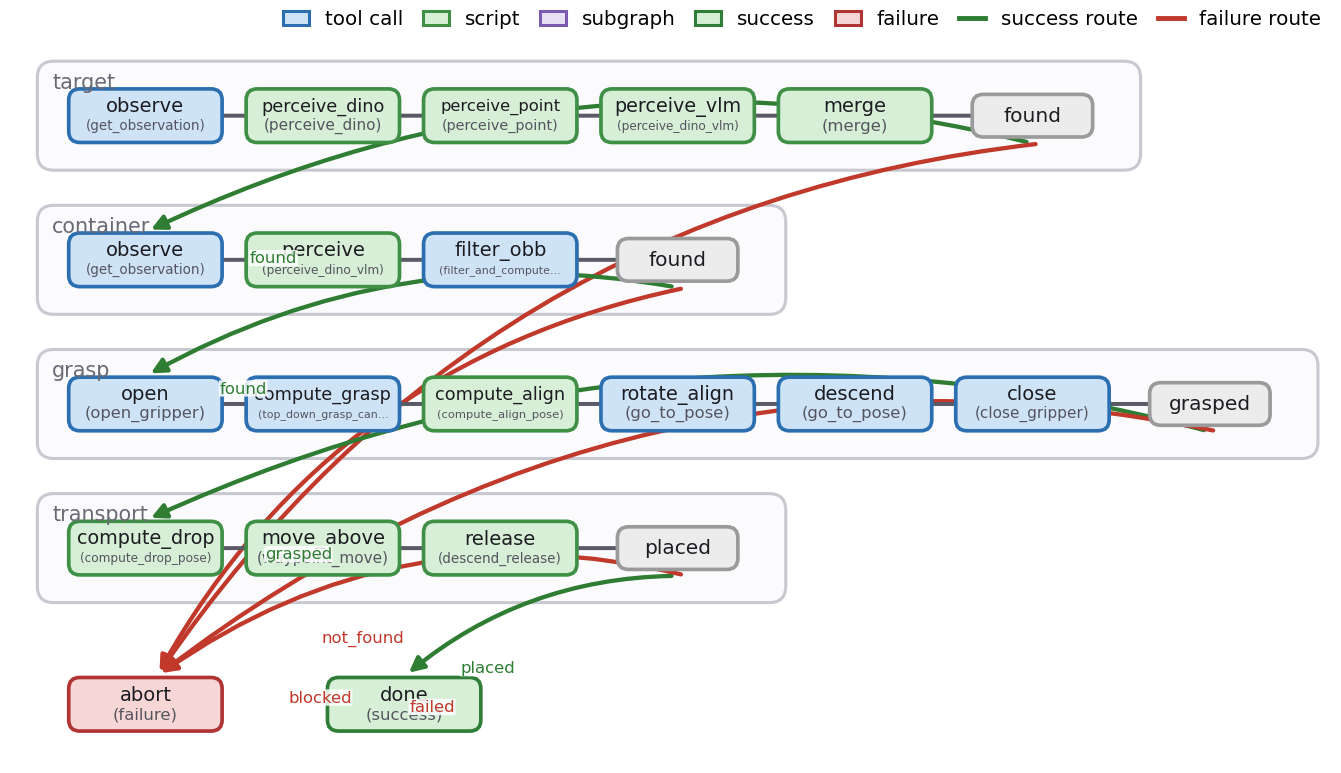
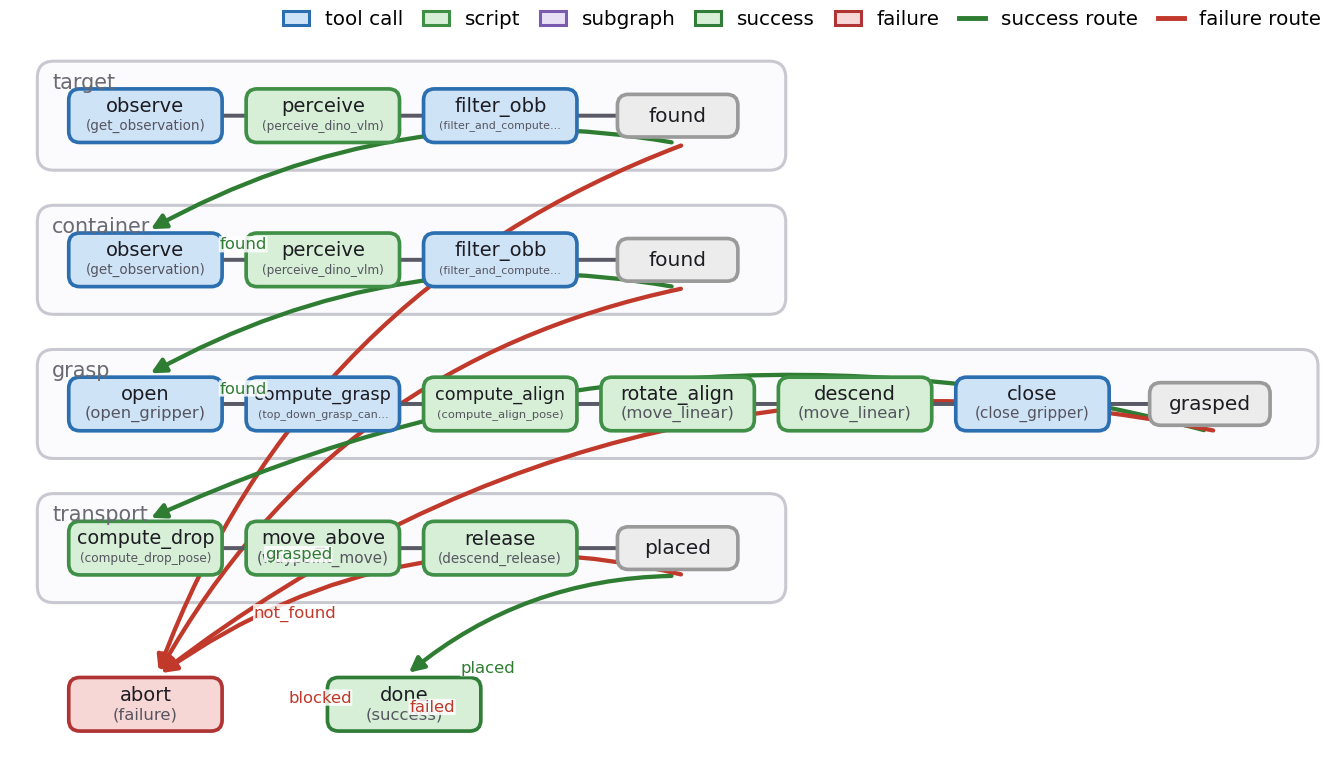
docs: rework the 15-minute tour, slim the landing page into Overview
- Regenerate quickstart_rollout.gif + quickstart_graph.png from the
  current graph (post perception refactor: single perceive path, linear
  descend) via a fresh verified rollout; assets now follow the
  docs/assets + _static-symlink convention.
- Tour gains a closing packing segment (minute 12-15): the grocery
  packing loop with its backward edge and unprivileged VLM termination.
- Landing page (docs/index.md) trimmed to hero + hello-world + cards;
  Abstract, VA positioning, grocery family, requirements table, and
  two-ways-in migrated to getting-started/overview.md.

diff --git a/docs/source/docs/index.md b/docs/source/docs/index.md
@@ -10,12 +10,12 @@ the workflow schema, and skill interfaces may change without notice between
 releases.
 :::
 
-**The graph is the policy.** GaP targets **Variational Automation (VA)** —
-tasks a robot must perform *persistently and reliably across many varying
-instances* (objects vary in geometry and pose), not just solve **once**. GaP is
-a multi-agent coding harness that compiles a natural-language task into a typed,
-verified computation graph of modular skills, self-improves it in simulation,
-and runs the graph — not a black-box policy — on simulators and real robots.
+**The graph is the policy.** GaP is a multi-agent coding harness that compiles
+a natural-language task into a typed, verified computation graph of modular
+skills, self-improves it in simulation, and runs the graph — not a black-box
+policy — on simulators and real robots. It targets **Variational Automation
+(VA)**: tasks a robot must perform *persistently and reliably across many
+varying instances* (objects vary in geometry and pose), not just solve once.
 
 <p><em>GaP: A Graph-as-Policy Multi-Agent Self-Learning Harness for Variational Automation</em></p>
 
@@ -40,98 +40,9 @@ and runs the graph — not a black-box policy — on simulators and real robots.
 
 *Real-robot rollouts of graphs generated from one-sentence task descriptions.*
 
-## Abstract
-
-GaP (Graph-as-Policy) targets **Variational Automation (VA)** — tasks a robot
-must perform persistently and reliably across many varying instances (objects
-vary in geometry and pose), not just solve once. Model-free policies struggle to
-close this **reliability gap**. GaP is a multi-agent coding harness that turns a
-natural-language task into a **directed computation graph of modular skills**
-(MORSL), self-improves it through simulation rehearsal, and ships it to an edge
-device for persistent execution — evaluated across **8 Variational Automation
-benchmarks (4 sim + 4 real)**; results are on the
-[project page](https://graph-robots.github.io/graph-as-policy-anonymous/).
-
-**Highlights**
-
-- We identify **Variational Automation (VA)** — a class of tasks, between fixed
-  automation and full generalist robotics, where a robot persistently performs
-  varying instances of a task with non-trivial variation in object geometry and
-  pose (e.g., sort packages, make coffee, build sandwiches).
-- **Graph-as-Policy (GaP)** represents a robot policy as a directed computation
-  graph of modular perception, planning, and control nodes — harnessing the
-  open-world adaptivity of LLM coding agents while preserving an interpretable,
-  reliable structure.
-- A hierarchical multi-agent harness decomposes a natural-language task, has
-  Skill Agents synthesize localized subgraphs from the **Modular Open Robot
-  Skill Library (MORSL, 51 initial skills)**, and wires them into a type-checked
-  executable graph.
-- GaP rehearses graphs in an internal **Isaac simulation** across parallel
-  sampled task instances, uses physical contact and state feedback to localize
-  failures to specific nodes, and iteratively refines graph topology and
-  parameters before deployment.
-- GaP is evaluated on **8 new open VA benchmarks (4 sim + 4 real)** against
-  VLA, TAMP, and single-agent code-as-policy baselines — see the
-  [project page](https://graph-robots.github.io/graph-as-policy-anonymous/)
-  for the results.
-
-## What is Variational Automation — and why GaP is different
-
-Many agentic-coding papers solve a task **once**. GaP targets **Variational
-Automation (VA)**: a robot must perform *varying instances* of a task —
-persistently and reliably — with non-trivial variation in the geometry and pose
-of objects, inside a known, bounded workcell. VA sits **between fixed automation
-and full generalist robotics**:
-
-- **Fixed Automation (FA)** — persistently repeats *identical* motions (spot
-  welding, spray painting). High reliability, zero adaptivity.
-- **Variational Automation (VA)** — persistently performs *varying* instances
-  (different SKUs, poses, arrangements) within a known workcell. **This is GaP's
-  target.**
-- **Generalist Robotics (GR)** — open-ended tasks via model-free end-to-end VLA
-  policies. Flexible, but not yet at commercial / industrial reliability.
-
-:::{admonition} Why not just single-agent Code-as-Policy?
-:class: note
-
-Single-agent Code-as-Policy (CaP) prompts a coding agent to emit free-form
-Python. For persistent, repeated execution this is unstructured: the context
-window grows, constraints are hard to obey, and agents are prone to
-hallucination and "cheating" on success metrics. GaP's directed computation
-graph revives the structure proven in the Robot Operating System (ROS) — routing
-data through an explicit graph to manage dependencies and ensure reliable
-execution — and layers the open-world adaptivity of pretrained LLM coding agents
-on top, preserving an interpretable policy that stays reliable across a VA
-task's many instances.
-:::
-
-## The grocery benchmark family, runnable here
-
-The two simulation benchmarks from the paper's grocery family ship in this
-repo as runnable examples — the same graphs, suites, and configs:
-
-- **[Grocery Fulfillment](../examples/grocery-fulfillment.md)** — pick a
-  *described* grocery item into the basket under pose / permutation /
-  basket-swap variations; every graph is LLM-generated per task, and the
-  full config is the release gate.
-- **[Grocery Packing](../examples/grocery-packing.md)** — pack *every*
-  item with a loop: a static graph with a real backward edge and
-  unprivileged VLM termination, plus the `gap generate` recipe that
-  reproduces it from one sentence.
-
-Quantitative comparisons against VLA, TAMP, and code-as-policy baselines
-live on the
-[project page](https://graph-robots.github.io/graph-as-policy-anonymous/);
-this documentation stays with what you can run and inspect.
-
-## What you need to try GaP
-
-| Requirement | Details |
-|---|---|
-| **GPU** | 1× NVIDIA RTX 4090-class GPU (**≥ 24 GB VRAM**), Linux + EGL. |
-| **LLM** | An API key for a coding LLM — **OpenRouter** (default, OpenAI-compatible) or Vertex — drives the multi-agent codegen harness. |
-| **VLM** | A vision-language model for perception (object identification & grounding), plus local **SAM3 + Grounding DINO** weights. A free [HuggingFace token](https://huggingface.co/settings/tokens) is needed for the gated SAM3 weights. |
-| **Tooling** | [uv](https://docs.astral.sh/uv/); the first run downloads ~3.5 GB of model weights. |
+The [Overview](../getting-started/overview.md) has the full story — what
+Variational Automation is, why the policy is a graph, and what you need to
+run GaP.
 
 ## Hello world — your first run
 
@@ -151,18 +62,6 @@ MUJOCO_GL=egl uv run gap run examples/libero_quickstart/graph --sim libero_objec
 uv run gap viz                            # browse the trial at localhost:9432
 ```
 
-…or drive the whole workflow from Python:
-
-```python
-import gap
-
-conn = gap.connector.sim("libero", task="libero_object/0")        # one process, no extra terminals
-result = gap.execute("examples/libero_quickstart/graph", conn)    # skills auto-discovered
-graph = gap.agent.generate_sync("pick up the soup can and put it in the basket")
-print(graph)                                                      # the policy, as a graph
-gap.viz.serve("outputs")                                          # browse the trial trace
-```
-
 ::::{grid} 1 2 3 3
 :gutter: 3
 
@@ -175,7 +74,7 @@ gap.viz.serve("outputs")                                          # browse the t
 :::{grid-item-card} ⏱ The 15-minute tour
 :link: ../getting-started/quickstart
 :link-type: doc
-Zero to a verified rollout on LIBERO, with the recorded trace open.
+Zero to a verified rollout on LIBERO — then a packing loop with a real backward edge.
 :::
 
 :::{grid-item-card} 🧪 Examples
@@ -202,24 +101,6 @@ Contributable perception, grasping, transport, tracking, and policy skills.
 One plugin install teaches AI coding agents to drive the whole workflow.
 :::
 ::::
-
-## Two ways in
-
-GaP runs the same workflow artifact however you produce it — by hand or
-from language:
-
-- **[Hand-curated quickstart](../examples/libero-quickstart.md)** — the
-  reference graph for `libero_object_all_variance/0`. Open a sim,
-  perceive, grasp with in-process IK, transport, verify against
-  ground truth.
-- **[Generate from language](../authoring/generation.md)** — one
-  sentence to a validated graph. The coordinator → subgraph-agents →
-  checkpoint-agent pipeline picks `perceiving-objects`,
-  `grasping-with-planner`, and `transporting-objects` from the skill
-  registry; the result runs end-to-end in sim with LLM-authored
-  postcondition checkpoints enforced at every subgraph exit.
-- **[Release gate](../examples/benchmark.md)** — a grid harness with
-  `--gate` for batch evaluation across modes × families × seeds.
 
 Read more in [Overview](../getting-started/overview.md), or jump straight to
 [Installation](../getting-started/installation.md).

diff --git a/docs/source/getting-started/overview.md b/docs/source/getting-started/overview.md
@@ -14,6 +14,90 @@ print(graph)                                                      # the policy, 
 gap.viz.serve("outputs")                                          # browse the trial trace
 ```
 
+## Abstract
+
+GaP (Graph-as-Policy) targets **Variational Automation (VA)** — tasks a robot
+must perform persistently and reliably across many varying instances (objects
+vary in geometry and pose), not just solve once. Model-free policies struggle to
+close this **reliability gap**. GaP is a multi-agent coding harness that turns a
+natural-language task into a **directed computation graph of modular skills**
+(MORSL), self-improves it through simulation rehearsal, and ships it to an edge
+device for persistent execution — evaluated across **8 Variational Automation
+benchmarks (4 sim + 4 real)**; results are on the
+[project page](https://graph-robots.github.io/graph-as-policy-anonymous/).
+
+**Highlights**
+
+- We identify **Variational Automation (VA)** — a class of tasks, between fixed
+  automation and full generalist robotics, where a robot persistently performs
+  varying instances of a task with non-trivial variation in object geometry and
+  pose (e.g., sort packages, make coffee, build sandwiches).
+- **Graph-as-Policy (GaP)** represents a robot policy as a directed computation
+  graph of modular perception, planning, and control nodes — harnessing the
+  open-world adaptivity of LLM coding agents while preserving an interpretable,
+  reliable structure.
+- A hierarchical multi-agent harness decomposes a natural-language task, has
+  Skill Agents synthesize localized subgraphs from the **Modular Open Robot
+  Skill Library (MORSL, 51 initial skills)**, and wires them into a type-checked
+  executable graph.
+- GaP rehearses graphs in an internal **Isaac simulation** across parallel
+  sampled task instances, uses physical contact and state feedback to localize
+  failures to specific nodes, and iteratively refines graph topology and
+  parameters before deployment.
+- GaP is evaluated on **8 new open VA benchmarks (4 sim + 4 real)** against
+  VLA, TAMP, and single-agent code-as-policy baselines — see the
+  [project page](https://graph-robots.github.io/graph-as-policy-anonymous/)
+  for the results.
+
+## What is Variational Automation — and why GaP is different
+
+Many agentic-coding papers solve a task **once**. GaP targets **Variational
+Automation (VA)**: a robot must perform *varying instances* of a task —
+persistently and reliably — with non-trivial variation in the geometry and pose
+of objects, inside a known, bounded workcell. VA sits **between fixed automation
+and full generalist robotics**:
+
+- **Fixed Automation (FA)** — persistently repeats *identical* motions (spot
+  welding, spray painting). High reliability, zero adaptivity.
+- **Variational Automation (VA)** — persistently performs *varying* instances
+  (different SKUs, poses, arrangements) within a known workcell. **This is GaP's
+  target.**
+- **Generalist Robotics (GR)** — open-ended tasks via model-free end-to-end VLA
+  policies. Flexible, but not yet at commercial / industrial reliability.
+
+:::{admonition} Why not just single-agent Code-as-Policy?
+:class: note
+
+Single-agent Code-as-Policy (CaP) prompts a coding agent to emit free-form
+Python. For persistent, repeated execution this is unstructured: the context
+window grows, constraints are hard to obey, and agents are prone to
+hallucination and "cheating" on success metrics. GaP's directed computation
+graph revives the structure proven in the Robot Operating System (ROS) — routing
+data through an explicit graph to manage dependencies and ensure reliable
+execution — and layers the open-world adaptivity of pretrained LLM coding agents
+on top, preserving an interpretable policy that stays reliable across a VA
+task's many instances.
+:::
+
+## The grocery benchmark family, runnable here
+
+The two simulation benchmarks from the paper's grocery family ship in this
+repo as runnable examples — the same graphs, suites, and configs:
+
+- **[Grocery Fulfillment](../examples/grocery-fulfillment.md)** — pick a
+  *described* grocery item into the basket under pose / permutation /
+  basket-swap variations; every graph is LLM-generated per task, and the
+  full config is the release gate.
+- **[Grocery Packing](../examples/grocery-packing.md)** — pack *every*
+  item with a loop: a static graph with a real backward edge and
+  unprivileged VLM termination, plus the `gap generate` recipe that
+  reproduces it from one sentence.
+
+Quantitative comparisons against VLA, TAMP, and code-as-policy baselines
+live on the
+[project page](https://graph-robots.github.io/graph-as-policy-anonymous/);
+this documentation stays with what you can run and inspect.
+
 ## The policy is the graph
 
 Most robot stacks hide the policy: it is a neural network's weights, or an
@@ -48,6 +132,24 @@ The graph behind the quickstart: perceive → grasp → transport, with exit
 routing and recovery. Rendered from
 [examples/libero_quickstart](gh-engine:examples/libero_quickstart).
 :::
+
+## Two ways in
+
+GaP runs the same workflow artifact however you produce it — by hand or
+from language:
+
+- **[Hand-curated quickstart](../examples/libero-quickstart.md)** — the
+  reference graph for `libero_object_all_variance/0`. Open a sim,
+  perceive, grasp with in-process IK, transport, verify against
+  ground truth.
+- **[Generate from language](../authoring/generation.md)** — one
+  sentence to a validated graph. The coordinator → subgraph-agents →
+  checkpoint-agent pipeline picks `perceiving-objects`,
+  `grasping-with-planner`, and `transporting-objects` from the skill
+  registry; the result runs end-to-end in sim with LLM-authored
+  postcondition checkpoints enforced at every subgraph exit.
+- **[Release gate](../examples/benchmark.md)** — a grid harness with
+  `--gate` for batch evaluation across modes × families × seeds.
 
 ## Two repos, discovered by path
 
@@ -150,6 +252,15 @@ plain numpy arrays and TypedDicts. A deeper tour of the packages is in
   with `--gate`: the grocery-fulfillment acceptance config must clear its
   configured `gate_threshold` for a release. See
   [Benchmarking](../benchmarks/benchmarking.md).
+
+## What you need to try GaP
+
+| Requirement | Details |
+|---|---|
+| **GPU** | 1× NVIDIA RTX 4090-class GPU (**≥ 24 GB VRAM**), Linux + EGL. |
+| **LLM** | An API key for a coding LLM — **OpenRouter** (default, OpenAI-compatible) or Vertex — drives the multi-agent codegen harness. |
+| **VLM** | A vision-language model for perception (object identification & grounding), plus local **SAM3 + Grounding DINO** weights. A free [HuggingFace token](https://huggingface.co/settings/tokens) is needed for the gated SAM3 weights. |
+| **Tooling** | [uv](https://docs.astral.sh/uv/); the first run downloads ~3.5 GB of model weights. |
 
 ## Scope of v1
 

diff --git a/docs/source/getting-started/quickstart.md b/docs/source/getting-started/quickstart.md
@@ -6,7 +6,9 @@ Zero to a verified rollout, with the trace open. You will:
   models, IK, and the sim in one process;
 - read the recorded trace, the artifact everything else revolves around;
 - browse it in `gap viz`;
-- generate your own graph from one sentence.
+- generate your own graph from one sentence;
+- loop the same machinery: pack *every* item on the table, through a
+  graph with a real backward edge.
 
 ::::{grid} 1 1 2 2
 :gutter: 3
@@ -33,7 +35,9 @@ Linux + an NVIDIA GPU with EGL (~10 GB VRAM covers this quickstart;
 [another provider](../authoring/llm-providers.md)). The first run
 downloads ~3.5 GB of model weights, and the gated SAM3 weights are in
 this quickstart's perception path — so set `HF_TOKEN` first; see
-[Model weights](installation.md#model-weights).
+[Model weights](installation.md#model-weights). The closing packing
+segment (minute 12–15) additionally needs the CuRobo planning stack:
+`CUDA_HOME=/usr/local/cuda uv sync --extra grocery`.
 :::
 
 ## Minute 0–6: run the quickstart graph
@@ -112,7 +116,7 @@ outputs, timings, and assets — the same `node_data/` you just saw, with
 images inline. When two runs disagree,
 `gap trace-diff <trial_a> <trial_b>` diffs them structurally.
 
-## Minute 8–15: generate your own
+## Minute 8–12: generate your own
 
 ```bash
 uv run gap generate "pick up the alphabet soup can and place it in the basket"
@@ -139,6 +143,45 @@ directory itself — generation writes one folder per task.
 
 [Generation](../authoring/generation.md) covers the pipeline, providers,
 and config in depth.
+
+## Minute 12–15: loop it — pack every item
+
+One pick is a straight line through the graph. The packing example runs
+the same perceive → grasp → transport machinery **in a loop**: transport
+routes *back* to perception, and the graph keeps picking until a VLM
+confirms every grocery item is in the basket.
+
+<figure>
+  <video src="../_static/grocery_packing_sim.mp4" autoplay loop muted playsinline width="70%"></video>
+  <figcaption>The packing loop on the pack-all suite
+  (<code>libero_object_packing/0</code>), 2×: one perceive → grasp →
+  transport pass per item, until the VLM completion check reports the
+  table clear.</figcaption>
+</figure>
+
+```bash
+CUDA_HOME=/usr/local/cuda uv sync --extra grocery   # one-time: adds CuRobo planning
+
+MUJOCO_GL=egl uv run gap run examples/grocery_packing/packing_graph \
+  --sim libero_object_packing/0
+```
+
+Watch the first pass land and the route bend backward:
+`transport --placed--> perceive_next` resolves to an already-completed
+node, so the executor resets and re-runs the loop body — re-perceiving
+*both* the next item and the basket every iteration. Termination is
+**unprivileged**: a per-pass VLM completion check, not a simulator
+verdict, decides when the table is clear, so the same policy runs
+unchanged on a real robot. Seeing the backward edge fire once is the
+point of this segment; a full pack takes roughly a minute per item (plus
+a one-time ~40 s CuRobo kernel JIT on the first planning call), so let
+it finish in the background and open `gap viz` after — `perceive_next`
+is visited once per object.
+
+[Grocery Packing](../examples/grocery-packing.md) dissects the loop in
+depth: the subgraphs, the backward-edge (subgraph-revisit) semantics,
+the layered termination signals, and the `gap generate` recipe that
+reproduces this same graph from one sentence.
 
 ## Where next
 
